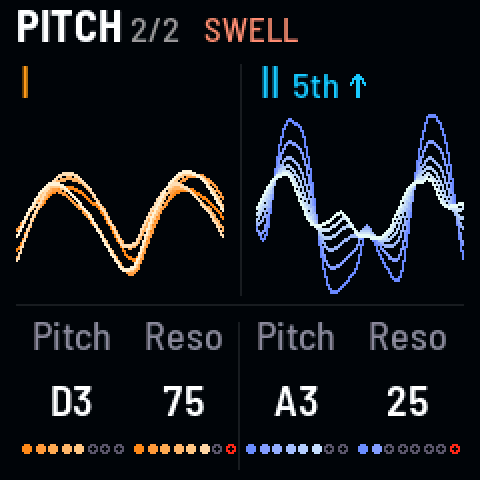
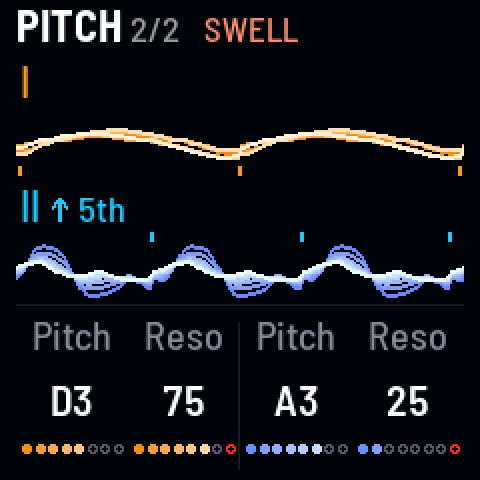
Pitch: drone I's wave over drone II's on one time line, so their pitches compare
Each drone's captured cycle repeats at its own rate across two cycles of the
lower drone, placed by when it was captured on a clock both share (the engine
now records each capture's start, rate and step, read-only): a fifth shows
three cycles of II under two of I, a few cents' detune slides II against I at
the beat rate, a pure interval stands still. A tick marks each cycle's start.
Each name sits at its lane's left, drone II's interval with the arrow first.

Turning a Reso or tapping a filter key lays that drone's filter curve as a
still, thin line under its wave (a river bed, the resonance a peak growing
evenly over the dial, a tick under the cutoff), the wave riding on it 3 px
above; a filter key also shows its type and key by the name. No banner for the
filter key on Pitch. The manual, the README's pictures and a golden render.

Changed region(s): [[0.0312, 0.2188, 0.9688, 0.625], [0.5312, 0.125, 0.7812, 0.2188], [0.6875, 0.5938, 0.7188, 0.625]]

diff --git a/firmware/src/app/look.c b/firmware/src/app/look.c
@@ -710,16 +710,16 @@ static int lk_heard(int g, float *bright, float *close)
 static float lk_cut_hist[DR_NGROUPS][LK_STRANDS];
 static void lk_curve(int g, int32_t x0, int32_t top, int32_t bot);
 
+static void lk_pitch_lanes(void);
 static void lk_pic_drones1(void)
 {
-    const int32_t top = 2 + (int32_t)LK_F_DRONE.h + 2, bot = LK_PIC_H - 2, mid = (top + bot) / 2, half = (bot - top) / 2;
+    const int32_t top = 2 + (int32_t)LK_F_DRONE.h + 2, bot = LK_PIC_H - 2, half = (bot - top) / 2;
     static uint32_t drawn;
     const uint32_t now = plat_ms();
     const int back = now - drawn > 200u;     /* back after a while away: every strand from now (as lk_curve) */
     int g, j, i;
     drawn = now;
-    for (g = 0; g < DR_NGROUPS; g++) {
-        const int32_t x0 = g ? 128 : 8;
+    for (g = 0; g < DR_NGROUPS; g++) {         /* each drone's last six captures, smoothed, scaled to its peak */
         float m = 0.0f, k;
         for (i = 0; i < DR_SCOPE_N; i++)
             m = fm_maxf(m, fm_fabsf(dr_scope[g][i]));
@@ -735,45 +735,8 @@ static void lk_pic_drones1(void)
                 for (j = 0; j < LK_STRANDS - 1; j++)
                     lk_hist[g][j][i] = lk_hist[g][LK_STRANDS - 1][i];
         }
-        if (plat_ms() < ui.touch_t[g ? 3 : 1] + 300u) {   /* its Reso turning, and 1.5 s after: the filter curve
-                                                         * as on Drones, the peak growing (Evan, 2026-11-08: the
-                                                         * waves hardly show the resonance); the waves' history
-                                                         * kept going, so they come back as they are now */
-            lk_curve(g, g ? 130 : 10, top + 2, LK_PIC_H - 6);
-            continue;
-        }
-        {   /* scaled to its own loudness, but as quiet as it is heard near silence: smaller and dimmer, then a
-             * thin gray line */
-            float br, cl;
-            if (!lk_heard(g, &br, &cl)) {
-                cv_rect(x0, mid, DR_SCOPE_N, 1, LK_UNLIT);
-                continue;
-            }
-            for (j = 0; j < LK_STRANDS; j++) { /* the oldest first, deep; the newest last, light */
-                const uint16_t c = lk_mix(0x07060Bu, lk_ramp888(g, (float)j / (float)(LK_STRANDS - 1)), br);
-                for (i = 1; i < DR_SCOPE_N; i++) {
-                    const int32_t a = (int32_t)((float)lk_hist[g][j][i - 1] * cl), b = (int32_t)((float)lk_hist[g][j][i] * cl);
-                    cv_line(x0 + i - 1, mid - a, x0 + i, mid - b, c);
-                    cv_line(x0 + i - 1, mid + 1 - a, x0 + i, mid + 1 - b, c);
-                }
-            }
-        }
     }
-    cv_rect(120, 4, 1, LK_PIC_H - 8, LK_RULE); /* drone I | drone II */
-    cv_text(10, 2, &LK_F_DRONE, "I", LK_DRONE[0]);
-    {   /* "II", and its interval from drone I after it, on the names' baseline */
-        char t[24];
-        const int c1 = proj.par[DR_GP(0, GP_PITCH)],
-                  c2 = proj.par[P_PLINK] ? c1 + proj.par[P_PLINK_OFF] : proj.par[DR_GP(1, GP_PITCH)];
-        const int32_t x1 = 130 + text_w(&LK_F_DRONE, "II") + 6, iy = 2 + LK_B(LK_F_DRONE) - LK_B(LK_F_SMALL);
-        int32_t ax;
-        if (!dr_tun_name(proj.par[P_TUNING], c1, c1, c2, t))
-            lk_interval(t, c2 - c1);
-        cv_text(130, 2, &LK_F_DRONE, "II", LK_DRONE[1]);
-        ax = cv_text(x1, iy, &LK_F_SMALL, t, LK_DRONE[1]);
-        if (c2 != c1)
-            lk_arrow(ax + 5, iy + LK_B(LK_F_SMALL) - 1, 11, c2 > c1, LK_DRONE[1]);
-    }
+    lk_pitch_lanes();
     for (i = 0; i < 4; i += 2)                 /* a pitch knob turning: its fine tuning, SEL's job, and how far
                                                 * it has the knob off the Tuning's notes ("fine +3"; Evan,
                                                 * 2026-11-07: on the other Tunings the note's own cents hid it) */
@@ -2130,6 +2093,147 @@ static void lk_pic_space(void)
     cv_text(130, 2, &LK_F_SMALL, "REVERB", LK_REV_C);
 }
 
+/* Pitch's picture (Evan, 2026-11-17): one wave over the other on one clock, drone I above, drone II below, each
+ * drone's name at its lane's left (II with its interval, the arrow first), so the two pitches can be compared */
+static void lk_pitch_lanes(void)
+{
+    const float p1 = dr_pitch[0] + dr_mac_pitch(0), p2 = dr_pitch[1] + dr_mac_pitch(1);
+    /* Across the page two cycles of the lower drone; each drone's captured cycle repeated at its own rate, placed by
+     * when it was captured (the engine's common sample clock), so a detune slides II along I at the beat rate and a
+     * pure interval stands still. A tick where each cycle starts, on the lanes' inner edges (a wave with several
+     * bumps a cycle still counts). Its Reso turning or its filter key tapped: the river bed, below */
+    static const char *const MODE[3] = {"LP", "BP", "HP"};
+    const int32_t x0 = 8, w = 224, H = LK_PIC_H, lh = H / 2;
+    const float ci0 = dr_scope_ci[0] > 1e-6f ? dr_scope_ci[0] : 8.1757989f * fm_exp2f(p1 / 12.0f) / DR_SR;
+    const float ci1 = dr_scope_ci[1] > 1e-6f ? dr_scope_ci[1] : 8.1757989f * fm_exp2f(p2 / 12.0f) / DR_SR;
+    const float win = 2.0f / fm_minf(ci0, ci1);        /* samples across the page */
+    const float lag = (float)(int32_t)(dr_scope_t0[0] - dr_scope_t0[1]);   /* II's capture began this much earlier */
+    int g, j, i;
+    for (g = 0; g < 2; g++) {
+        const int32_t ly = g * lh, base = ly + 2 + LK_B(LK_F_DRONE);
+        const int32_t wt = ly + (int32_t)LK_F_DRONE.h + (g ? 7 : 3), wb = ly + lh - (g ? 3 : 7);   /* room for the
+                                                * ticks: under I's wave, over II's */
+        const int32_t mid = (wt + wb) / 2, amp = (wb - wt) / 2;
+        const float ci = g ? ci1 : ci0, dec = (float)(dr_scope_dec[g] ? dr_scope_dec[g] : 1u);
+        const float off = g ? lag * ci1 : 0.0f;  /* II's phase at I's capture start */
+        const int over = plat_ms() < ui.filt_t[g];   /* its filter key tapped: the type and key by the name */
+        const int reso = plat_ms() < ui.touch_t[g ? 3 : 1] + 300u;   /* its Reso turning, and 1.5 s after */
+        float br, cl;
+        int32_t x;
+        x = cv_text(10, ly + 2, &LK_F_DRONE, g ? "II" : "I", LK_DRONE[g]) + 6;
+        if (over) {                            /* "BP [A#3]", the interval giving way meanwhile */
+            const int m = gpar(g, GP_MODE);
+            lk_key(cv_text(x, base - LK_B(LK_F_SMALL), &LK_F_SMALL, MODE[(unsigned)m < 3u ? m : 0], LK_DRONE[g]) + 5,
+                   base, LK_BKEY[g ? 7 : 2]);
+        } else if (g) {
+            char t[24];
+            const int c1 = proj.par[DR_GP(0, GP_PITCH)],
+                      c2 = proj.par[P_PLINK] ? c1 + proj.par[P_PLINK_OFF] : proj.par[DR_GP(1, GP_PITCH)];
+            if (!dr_tun_name(proj.par[P_TUNING], c1, c1, c2, t))
+                lk_interval(t, c2 - c1);
+            if (c2 != c1) {                    /* the arrow first, beside the name: which drone is higher, at a
+                                                * glance (Evan, 2026-11-17) */
+                lk_arrow(x, base - 1, 11, c2 > c1, LK_DRONE[1]);
+                x += 13;
+            }
+            cv_text(x, base - LK_B(LK_F_SMALL), &LK_F_SMALL, t, LK_DRONE[1]);
+        }
+        {   /* its Reso turning or its filter key tapped: the filter's curve as a still, thin line, a river bed, and
+             * the wave flowing on it as the river, its middle following the bed (Evan, 2026-11-17: "a river bed where
+             * the wave form is a moving river"); in about 0.2 s, back over about 0.5 s */
+            static float mx[2];
+            static uint32_t last[2];
+            static int16_t bed[2][57];
+            const uint32_t now = plat_ms();
+            const float dt = fm_minf((float)(now - last[g]) * 0.001f, 0.1f);
+            const float ra = (float)amp * 0.35f;      /* the river's half height on its bed: a third of the lane, the
+                                                * bed's span the rest (a lane is ~32 px: the peak needs the room) */
+            const float gap = 3.0f;                   /* between the river and its bed, so the bed reads (Evan,
+                                                * 2026-11-17: "a tiny bit more room"); the wave slides up with it */
+            const float span = (float)(wb - wt) - 2.0f * ra - gap, rr = reso_now(g) * 0.001f;
+            const float bx = 56.0f * fm_clampf(dr_cut[g] * 0.01f, 0.0f, 1.0f), bs = (22.0f - 14.0f * rr) * 0.25f;
+            last[g] = now;
+            mx[g] = over || reso ? fm_minf(mx[g] + dt / 0.2f, 1.0f) : fm_maxf(mx[g] - dt / 0.5f, 0.0f);
+            if (mx[g] > 0.0f)
+                for (i = 0; i <= 56; i++) {         /* the filter's shape, -24 .. 0 dB over the bed's lower half;
+                                                * the resonance a peak at the cutoff over the upper half, its height
+                                                * Reso as heard, evenly over the dial (the review: 5-6 px at 86) */
+                    const float d = filt_db(g, dr_cut[g], 100.0f * (float)i / 56.0f), u = ((float)i - bx) / bs;
+                    const float pk = u > -3.0f && u < 3.0f ? rr * fm_exp2f(-1.442695f * u * u) : 0.0f;
+                    bed[g][i] = (int16_t)(wb - (int32_t)(((fm_clampf(d, -24.0f, 0.0f) + 24.0f) / 24.0f * 0.35f + 0.65f * pk) *
+                                                         span + 0.5f));
+                }
+            if (!lk_heard(g, &br, &cl)) {
+                cv_rect(x0, mid, w, 1, LK_UNLIT);
+                continue;
+            }
+            {
+                const float sc = (float)amp / (float)((H - 2 - (2 + (int32_t)LK_F_DRONE.h + 2)) / 2);
+                const float m = mx[g] * mx[g] * (3.0f - 2.0f * mx[g]);   /* eased */
+                if (m > 0.0f) {                /* the bed: 1 px, still, light (the drone's light end halfway to
+                                                * white, the review: drone II's read gray), coming in with it; a
+                                                * white tick under the cutoff */
+                    const uint32_t l = lk_ramp888(g, 1.0f);
+                    const uint32_t hi = ((l >> 16 & 255u) + 255u) / 2u << 16 | ((l >> 8 & 255u) + 255u) / 2u << 8 |
+                                        ((l & 255u) + 255u) / 2u;
+                    const uint16_t bc = lk_mix(0x07060Bu, hi, m);
+                    const int32_t cx = x0 + (int32_t)(bx * 4.0f);
+                    for (i = 1; i <= 56; i++)
+                        cv_line(x0 + 4 * (i - 1), bed[g][i - 1], x0 + 4 * i, bed[g][i], bc);
+                    if (m > 0.5f)
+                        cv_rect(cx < x0 + 1 ? x0 + 1 : cx > x0 + w - 3 ? x0 + w - 3 : cx, wb + 1, 2, 4, LK_WHITE);
+                }
+                for (j = 0; j < LK_STRANDS; j++) {
+                    const uint16_t c = lk_mix(0x07060Bu, lk_ramp888(g, (float)j / (float)(LK_STRANDS - 1)), br);
+                    int32_t py = 0;
+                    for (i = 0; i < w; i++) {
+                        float ph = off + (float)i / (float)(w - 1) * win * ci;   /* cycles */
+                        int k;
+                        int32_t y;
+                        float v;
+                        ph -= fm_floorf(ph);
+                        k = (int)((ph / ci + 1.0f) / dec) - 1;   /* point k sits at ((k + 1) dec - 1) samples */
+                        k = k < 0 ? 0 : k > DR_SCOPE_N - 1 ? DR_SCOPE_N - 1 : k;
+                        v = (float)lk_hist[g][j][k] * sc;   /* its lane's height at any level: a quiet drone dims,
+                                                * it doesn't shrink (the review) */
+                        y = mid - (int32_t)v;
+                        if (m > 0.0f) {        /* on the bed: its middle ra over the bed, its height ra */
+                            const float u = (float)i * 0.25f;
+                            const int a = u >= 56.0f ? 55 : (int)u;
+                            const float f = u - (float)a, b = (float)bed[g][a] + ((float)bed[g][a + 1] - (float)bed[g][a]) * f;
+                            const float yr = b - gap - ra - v * ra / (float)(amp > 0 ? amp : 1);
+                            y = (int32_t)((float)y + ((yr - (float)y) * m) + 0.5f);
+                        }
+                        if (i) {
+                            cv_line(x0 + i - 1, py, x0 + i, y, c);
+                            cv_line(x0 + i - 1, py + 1, x0 + i, y + 1, c);
+                        }
+                        py = y;
+                    }
+                }
+                if (m > 0.5f) {                /* on the bed: the cycle ticks sit on it (the review) */
+                    for (i = 0; i < w; i++) {
+                        const float a = off + (float)i / (float)(w - 1) * win * ci, b = off + (float)(i + 1) / (float)(w - 1) * win * ci;
+                        if (i == 0 ? a - fm_floorf(a) < 1e-3f : fm_floorf(b) != fm_floorf(a)) {
+                            const int32_t tx = i < 1 ? 1 : i > w - 3 ? w - 3 : i;
+                            const int ia = tx / 4 > 55 ? 55 : tx / 4;
+                            cv_rect(x0 + tx, bed[g][ia] - 2, 2, 5, LK_DRONE[g]);
+                        }
+                    }
+                    continue;
+                }
+            }
+            for (i = 0; i < w; i++) {          /* a tick at each cycle's start: under I's wave, over II's; 2 px,
+                                                * kept in from the edges (the review) */
+                const float a = off + (float)i / (float)(w - 1) * win * ci, b = off + (float)(i + 1) / (float)(w - 1) * win * ci;
+                if (i == 0 ? a - fm_floorf(a) < 1e-3f : fm_floorf(b) != fm_floorf(a)) {
+                    const int32_t tx = x0 + (i < 1 ? 1 : i > w - 3 ? w - 3 : i);
+                    cv_rect(tx, g ? wt - 5 : wb, 2, 5, LK_DRONE[g]);
+                }
+            }
+        }
+    }
+}
 static void lk_pic(void)
 {
     const int msg = plat_ms() < ui.msg_until;

diff --git a/firmware/src/dsp/drone.c b/firmware/src/dsp/drone.c
@@ -714,6 +714,8 @@ typedef struct {
     uint8_t linked;                               /* PITCH LINK was on last tick */
     uint16_t sc_n, sc_dec, sc_cnt, sc_wait;       /* the scope: points taken, a point every sc_dec samples */
     uint16_t sc_arm;                              /* ... samples armed without a cycle starting */
+    uint32_t sc_t0;                               /* ... the sample it started on (sc_clk) */
+    float sc_ci;                                  /* ... the cycles a sample then */
     float slide;                                  /* semitones a control tick toward the pitch; 0: there */
     float st;                                     /* where the slide is: the Glide follows it */
     uint16_t slide_ms;                            /* dr_slide: the next pitch change's slide, ms */
@@ -889,6 +891,10 @@ volatile float dr_cut[DR_NGROUPS];
 volatile float dr_xw[DR_NGROUPS], dr_reso[DR_NGROUPS];
 volatile float dr_fb, dr_snarl;
 volatile float dr_scope[DR_NGROUPS][DR_SCOPE_N];
+volatile uint32_t dr_scope_t0[DR_NGROUPS];
+volatile float dr_scope_ci[DR_NGROUPS];
+volatile uint16_t dr_scope_dec[DR_NGROUPS];
+static uint32_t sc_clk;                          /* samples rendered: the scopes' common clock */
 static float sc_buf[DR_NGROUPS][DR_SCOPE_N];
 static float pulse_ph, pulse_g = 1.0f;           /* the pulse: phase over two beats (0..2), its gain */
 static float pulse_a;                            /* the pulse coming in / going out (Morph), 0..1 */
@@ -2394,6 +2400,9 @@ static DR_RAM_CODE void render_group(int g, uint32_t n)
                         int q;
                         for (q = 0; q < DR_SCOPE_N; q++)
                             dr_scope[g][q] = sc_buf[g][q];
+                        dr_scope_t0[g] = v->sc_t0;
+                        dr_scope_ci[g] = v->sc_ci;
+                        dr_scope_dec[g] = v->sc_dec;
                         v->sc_wait = 1500;      /* ~34 ms, then the next */
                     }
                 }
@@ -2408,6 +2417,8 @@ static DR_RAM_CODE void render_group(int g, uint32_t n)
                 v->sc_n = 0;
                 v->sc_cnt = 0;
                 v->sc_dec = (uint16_t)(d < 1.0f ? 1.0f : d > 4000.0f ? 4000.0f : d);
+                v->sc_t0 = sc_clk + j + 1;      /* the next sample starts the cycle */
+                v->sc_ci = ci;
             }
             if (g == 1)                         /* for drone I's cross-FM, next block */
                 ybuf[j] = y;
@@ -2644,6 +2655,7 @@ void dr_render(int32_t *out, uint32_t n, uint32_t gain_q12)
         if (fade > 0.0f || fade_target > 0.0f) {
             for (g = 0; g < DR_NGROUPS; g++)
                 DR_FAR(render_group)(g, k);
+            sc_clk += k;
         } else {                                 /* stopped: the pitches go straight where they're set, */
             pulse_a = par[P_PULSE] ? 1.0f : 0.0f;    /* and the switches are where they're set */
             pf_run(0);

diff --git a/firmware/src/app/ui.c b/firmware/src/app/ui.c
@@ -173,6 +173,8 @@ static struct {
     char glab[2][16];                  /* SELECT / ALGORITHM / PRESETS turned: their name and value (top bar) */
     uint32_t glab_until;
     uint32_t touch_t[4];               /* each knob: lit until then (each its own timer: two hands) */
+    uint32_t filt_t[2];                /* each drone's filter key: Pitch shows its type and key, and its filter's
+                                        * curve under its wave, until then */
     uint8_t sel_lit;                   /* bit i: knob i last turned with SEL held, on a page where that's a second job */
     uint8_t sel_turned;                /* a second job turned since SEL went down (the key map stays away) */
     int8_t morph;                      /* the scene being morphed to (VISIT_BACK: back from a visit), or -1 */
@@ -629,6 +631,8 @@ static void sw_flip(sw_t w)
         static const char *const MODE[3] = {"LP", "BP", "HP"};
         int m = (proj.par[base + GP_MODE] + 1) % 3;
         param_set(base + GP_MODE, m);
+        ui.filt_t[w.g] = plat_ms() + 1500u;   /* Pitch shows the type, the key and the filter's curve a while, as for
+                                                * a Reso turned (Evan, 2026-11-17) */
         what = "FILTER";
         st = MODE[m];
         break;
@@ -659,7 +663,7 @@ static void sw_flip(sw_t w)
     default: return;
     }
     if ((w.s == S_PARTNER && ui.view == V_PARTNER) || (w.s == S_SUBOCT && ui.view == V_SOURCE) ||
-        (w.s == S_HP && ui.view == V_PLAY) || (w.s == S_XMOD && ui.view == V_LFO2) ||
+        (w.s == S_HP && (ui.view == V_PLAY || ui.view == V_PLAY2)) || (w.s == S_XMOD && ui.view == V_LFO2) ||
         (ui.view == V_LFO && (w.s == S_OTAP || w.s == S_ODEST || w.s == S_FTAP || w.s == S_FDEST)) ||
         (w.s == S_DTAP && ui.view == V_LFO2))
         return;                                /* the page shows it and its key: no banner (Evan, 2026-11-02; the LFO

diff --git a/firmware/src/dsp/drone.h b/firmware/src/dsp/drone.h
@@ -311,4 +311,7 @@ float dr_age_now(float *ph);                   /* Age as heard now (its 20 s wea
  * renewed about 30 times a second */
 #define DR_SCOPE_N 104
 extern volatile float dr_scope[DR_NGROUPS][DR_SCOPE_N];
+extern volatile uint32_t dr_scope_t0[DR_NGROUPS];   /* each capture's start, in samples of one clock for both */
+extern volatile float dr_scope_ci[DR_NGROUPS];      /* ... its oscillator's cycles a sample then */
+extern volatile uint16_t dr_scope_dec[DR_NGROUPS];  /* ... samples a point */
 extern volatile float dr_pitch[DR_NGROUPS];    /* each drone's pitch now (MIDI note, fractional while sliding) */

diff --git a/docs/manual/reference/drones.md b/docs/manual/reference/drones.md
@@ -36,7 +36,7 @@ Low-pass (LP), band-pass (BP) or high-pass (HP), on a black key: [[A#3]] for dro
 
 ## Pitch
 
-<img class="shot" src="../../img/screen-play2.png" width="240" alt="The Pitch page: each drone's waveform as strands, and drone II's interval from drone I">
+<img class="shot" src="../../img/screen-play2.png" width="240" alt="The Pitch page: drone I's wave above drone II's on one time line, a tick where each cycle starts, and drone II's interval from drone I">
 
 | KNOB 1 | KNOB 2 | KNOB 3 | KNOB 4 |
 |---|---|---|---|
@@ -60,5 +60,11 @@ Low-pass (LP), band-pass (BP) or high-pass (HP), on a black key: [[A#3]] for dro
 - **A fine offset stays** (with SEL, +3 cents stays +3 from note to note) until you change the Tuning; "fine +3" shows
   it.
 - **The pictures:** on Drones, each filter's curve, its level in dB under it, its note at the right; a silent drone is
-  a thin gray curve. On Pitch, each wave as strands that fan out as it moves, and drone II's interval from drone I
-  ("5th ↑").
+  a thin gray curve. On Pitch, drone I's wave above drone II's on one time line, so you
+  see their pitches side by side: at a fifth drone II runs three cycles to drone I's two, at an octave four. A tick
+  marks where each cycle starts. Drone II's name has its interval from drone I, the arrow first ("↑ 5th"). A few
+  cents off a pure interval, drone II's wave slides slowly against drone I's, faster the further off; in tune, it
+  stands still.
+- **Resonance and filter type on Pitch:** while you turn a resonance, or for a moment after you tap a filter key,
+  that drone's filter curve shows as a thin, still line under its wave, and the wave rides on it, rising over the
+  resonance's peak. A filter key also shows its type and key by the drone's name ("BP [[A#3]]").
